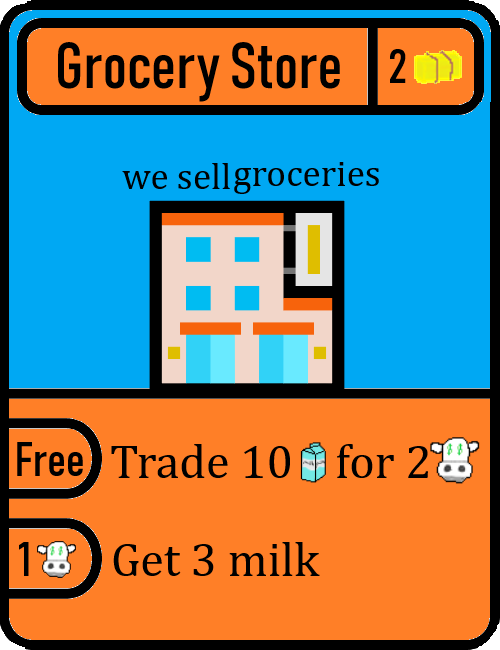
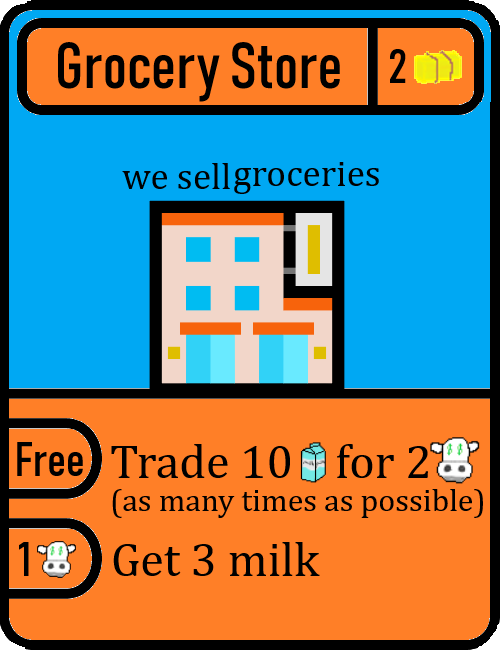
maybe this will work/??????????

Changed region(s): [[0.21, 0.7385, 0.63, 0.8], [0.66, 0.7385, 0.99, 0.8]]

diff --git a/cows.py b/cows.py
@@ -601,6 +601,7 @@ class Player:
         get_local_player().update_visible_currencies()
         # draw step stuff
         if self.step == "use":
+            get_statistics_manager().turns_passed += 1
             self.draw_card()
         # collect step stuff
         if self.step == "collect":
@@ -1882,3 +1883,22 @@ class UnionWorkerCow(Card):
 
     def unionize(self):
         execute_action(Action(self, DO_SELF_GIVE_DOLLAR, get_local_player().amount_of(UnionWorkerCow)))
+
+
+class GroceryStore(Card):
+    image = "grocery_store.png"
+    type = TYPE_LAND
+
+    def __init__(self, pos: Union[list[int], tuple[int, int]] = (100, 100)):
+        super().__init__(pos)
+        self.land_max_capacity = 0
+        self.cost_amount = 2
+        self.cost_currency = HAY
+        self.abilities = [Ability(Action(self, DO_RUN_FUNCTION, self.milkify), 0, HAY, ab_name="Milk monopoly"),
+                          Ability(Action(self, DO_SELF_GIVE_MILK, 3), 1, DOLLAR, ab_name="Dad bought milk")]
+
+    def milkify(self):
+        while get_local_player().milk >= 10:
+            execute_action(Action(self, DO_SELF_GIVE_DOLLAR, 2))
+            get_local_player().milk -= 10
+        get_local_player().visible_milk = get_local_player().milk

diff --git a/main.py b/main.py
@@ -215,7 +215,7 @@ def draw_game():
     if not get_local_player().doing_input_action:
         screen.blit(
             fetch_text(
-                f"{get_statistics_manager().turns_passed} turn{'s'*(get_statistics_manager().turns_passed != 1)} passed", font),
+                f"turn {get_statistics_manager().turns_passed}", font),
             (10, 10)
         )
 

diff --git a/README.md b/README.md
@@ -1,6 +1,7 @@
 # Castle Cows
 [![License: GPL v3](https://img.shields.io/badge/License-GPLv3-blue.svg)](https://www.gnu.org/licenses/gpl-3.0)
 [![trello board](https://img.shields.io/badge/todo%20board-trello-blue.svg)](https://trello.com/b/5BatIDc3/todo)
+![modding docs](https://img.shields.io/badge/modding%20docs-COMING%20SOON-blue.svg)
 
 ## How to play:
 Rulebook still unavailible. Will be put in game when the game is ready.
@@ -9,6 +10,23 @@ Rulebook still unavailible. Will be put in game when the game is ready.
 Its a fun game
 <br>You can beat other people at dairy farming
 <br>You can make an overpowered cow farm
+<br>You can sign a contract with the devil
+
+## Play from source:
+This is for playing Castle Cows without using PyInstaller to turn it into a binary.
+
+You will need python 3.9+ (other versions cause errors)
+
+Install the requirements in requirements.txt using
+```
+pip3 install -r requirements.txt
+```
+I would recommend doing the same for optional-requirements.txt if you're on windows (it allows for smooth gameplay)
+
+Run the game with 
+```
+python3 main.py
+```
 
 ## Build Instructions:
 **NOTE: IF A `pip3` COMMAND DOES NOT WORK, TRY REPLACING IT WITH `py -m pip` OR `python3 -m pip` INSTEAD**
@@ -24,7 +42,7 @@ pip3 install PyInstaller
 Use pyinstaller to build the main.py file
 <br>For example, `py -m PyInstaller main.py --clean --F --noconsole`
 - `--noconsole` is used to prevent console from appearing when launching
-- `--clean` is used to prevent windows explorer from falsely detecting it as a virus
+- `--clean` is used to prevent windows defender from falsely detecting it as a virus
 - `-F` (shorthand for `--onefile`) makes it one file and removes ".dll" file clutter.
 
 Then, drag images and sound folders into the "dist" folder.<br>
